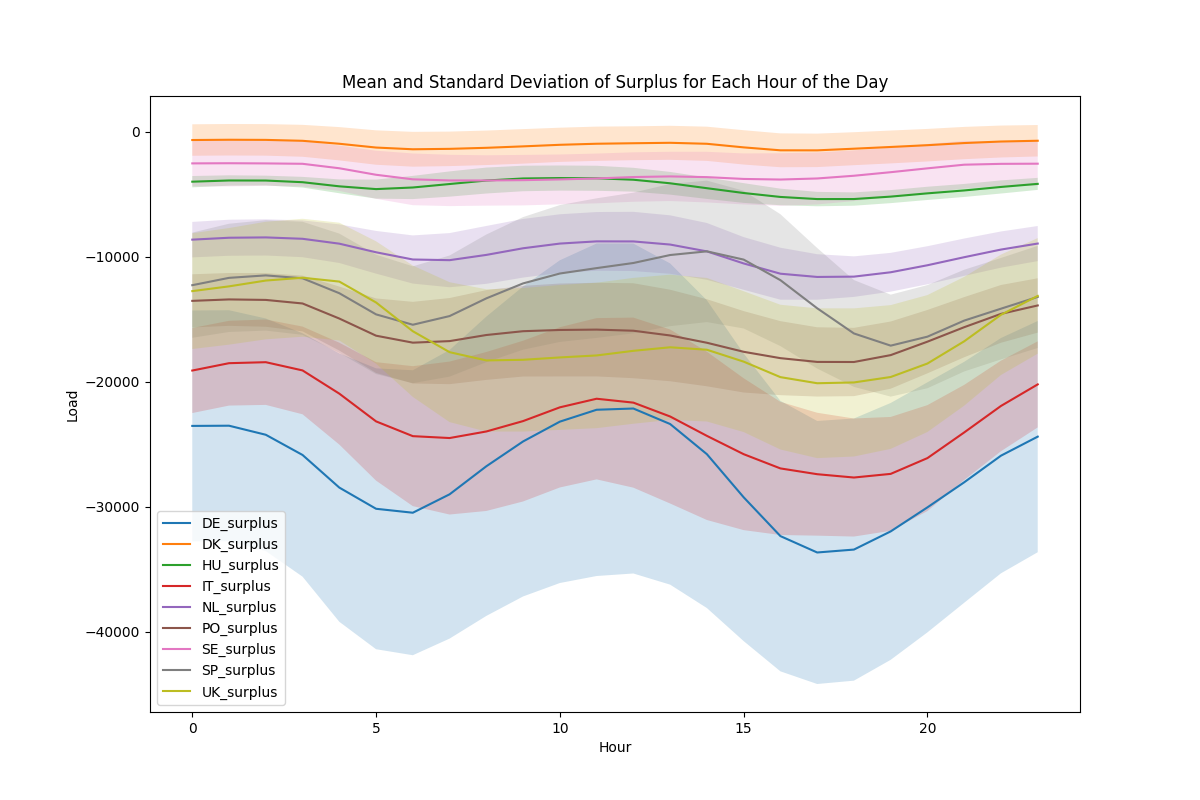
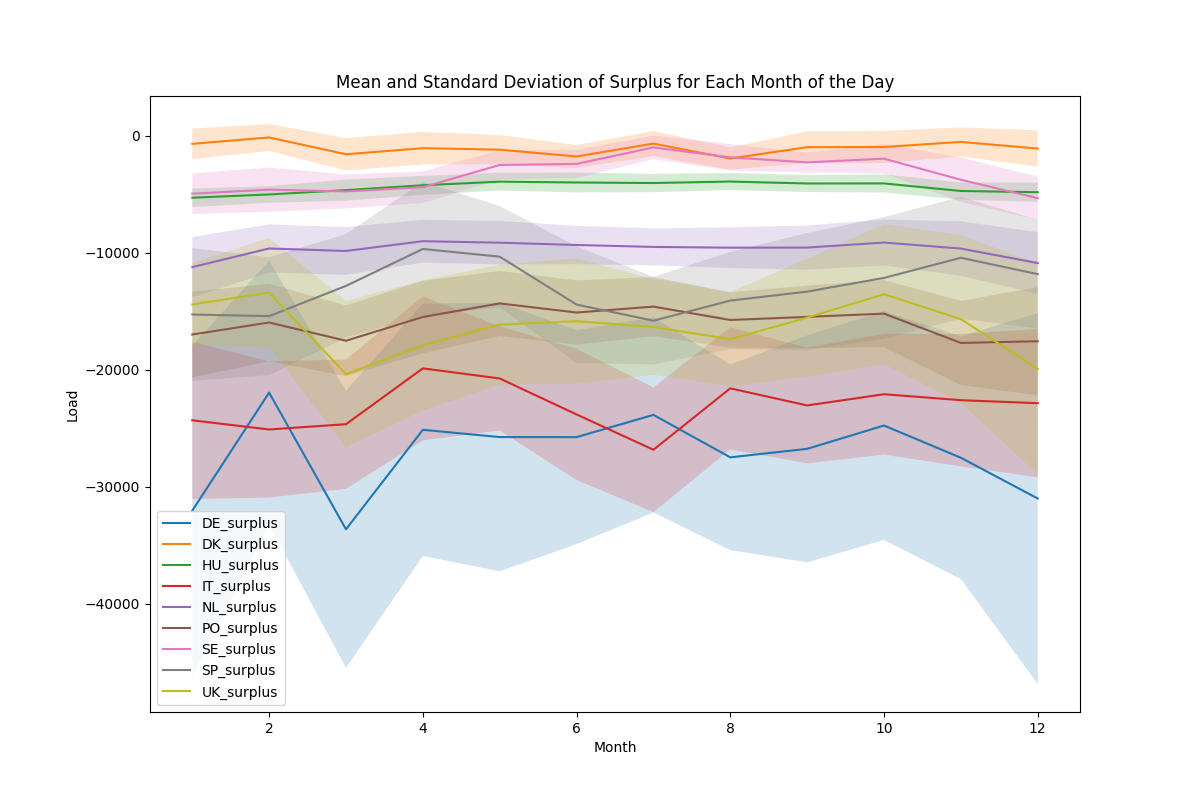
Documentation update
* Pending to run with the selected predictions.json

diff --git a/doc/charts.py b/doc/charts.py
@@ -1,18 +1,21 @@
 #Ensure that you have installed all the necessary dependencies. You can do this by executing "pip install NAME", for example, NAME=seaborn.1
-import pandas as pd
-import matplotlib.pyplot as plt
-import seaborn as sns
+import os
+import json
 import numpy as np
+import pandas as pd
+import seaborn as sns
+import matplotlib.pyplot as plt
+
+from pandas import json_normalize
+
 
 """--------------------------------------------------------------
-#EXPLORATORY ANALYSIS 1 - Insights [2/8]
+#EXPLORATORY ANALYSIS 1 - Insights [2/3]
 --------------------------------------------------------------
 """
 
 csv_file_path = "../data/processed_data_only_entsoe.csv"
 df = pd.read_csv(csv_file_path)
-
-print(df)
 
 #Total green per country
 total_load = df[[col for col in df.columns if 'green' in col]].sum()
@@ -41,14 +44,12 @@ plt.show()
 plt.close()
 
 """--------------------------------------------------------------
-#EXPLORATORY ANALYSIS 2 - Insights [2/8]
+#EXPLORATORY ANALYSIS 2 - Insights [2/3]
 --------------------------------------------------------------
 """
 
 csv_file_path = "../data/processed_data.csv"
 df = pd.read_csv(csv_file_path)
-
-print(df)
 
 #Total load per country
 total_load = df[[col for col in df.columns if 'load' in col]].sum()
@@ -89,9 +90,113 @@ for column in mean_load.columns:
 
 plt.title('Mean and Standard Deviation of Surplus for Each Hour of the Day')
 plt.xlabel('Hour')
-plt.ylabel('Load')
+plt.ylabel('Surplus')
 plt.legend()
 
-plt.savefig('surplus_std.png')
+plt.savefig('hour_surplus_std.png')
+plt.show()
+plt.close()
+
+"""--------------------------------------------------------------
+#EXPLORATORY ANALYSIS 2 - Insights [3/3]
+--------------------------------------------------------------
+"""
+csv_file_path = "../data/processed_data.csv"
+df = pd.read_csv(csv_file_path)
+
+# (Training dataset) Pie chart group by 'label' and count the number of occurrences of each label 
+label_counts = df['label'].value_counts()
+
+plt.figure(figsize=(10, 6))
+plt.pie(label_counts, labels=label_counts.index, autopct='%1.1f%%', startangle=140)
+plt.title('Distribution of Labels (Training dataset)')
+
+plt.savefig('correct_training_labels.png')
+plt.show()
+plt.close()
+
+
+# (prediction labels) Pie chart group by 'label' and count the number of occurrences of each label 
+file_path = os.path.join(os.path.dirname(__file__), '../predictions/predictions.json')
+with open(file_path, 'r') as file:
+    json_data = json.load(file)
+
+df = json_normalize(json_data).transpose()
+df.columns = ['label']
+label_counts = df['label'].value_counts()
+
+plt.figure(figsize=(10, 6))
+plt.pie(label_counts, labels=label_counts.index, autopct='%1.1f%%', startangle=140)
+plt.title('Distribution of Labels')
+
+plt.savefig('predicted_labels.png')
+plt.show()
+plt.close()
+
+
+csv_file_path = "../data/test-labeled.csv"
+df = pd.read_csv(csv_file_path)
+
+# (Correct test dataset) Pie chart group by 'label' and count the number of occurrences of each label 
+label_counts = df['label'].value_counts()
+
+plt.figure(figsize=(10, 6))
+plt.pie(label_counts, labels=label_counts.index, autopct='%1.1f%%', startangle=140)
+plt.title('Distribution of Labels (Training dataset)')
+
+plt.savefig('correct_test_labels.png')
+plt.show()
+plt.close()
+
+csv_file_path = "../data/processed_data.csv"
+df = pd.read_csv(csv_file_path)
+
+# STD Monthly
+df['Time'] = pd.to_datetime(df['Time'])
+df['Month'] = df['Time'].dt.month
+
+mean_load = df.groupby('Month')[[col for col in df.columns if 'surplus' in col]].mean()
+std_load = df.groupby('Month')[[col for col in df.columns if 'surplus' in col]].std()
+
+plt.figure(figsize=(12, 8))
+for column in mean_load.columns:
+    plt.plot(mean_load.index, mean_load[column], label=column)
+    plt.fill_between(mean_load.index, mean_load[column]-std_load[column], mean_load[column]+std_load[column], alpha=0.2)
+
+plt.title('Mean and Standard Deviation of Surplus for Each Month')
+plt.xlabel('Month')
+plt.ylabel('Surplus')
+plt.legend()
+
+plt.savefig('monthly_surplus_std.png')
+plt.show()
+plt.close()
+
+"""--------------------------------------------------------------
+Others
+--------------------------------------------------------------
+"""
+
+# Circle with 24 points
+def calculate_circle_points(radius, num_points):
+    theta = np.linspace(0, 2*np.pi, num_points)
+    x = radius * np.cos(theta)
+    y = radius * np.sin(theta)
+    return x, y
+
+num_points = 24 # Number of points to mark on the circle
+radius = 1.0
+x_circle, y_circle = calculate_circle_points(radius, num_points)
+plt.figure(figsize=(6, 6))
+plt.plot(x_circle, y_circle, label='Circle')
+plt.scatter(x_circle, y_circle, color='red', label='Points')
+for i, (x, y) in enumerate(zip(x_circle, y_circle)):
+    plt.text(x, y, str(i+1), color='black', ha='center', va='center')
+plt.axis('equal')
+plt.xlabel('X-axis')
+plt.ylabel('Y-axis')
+plt.title('Circle with 24 Points')
+
+plt.savefig('circle_24_points.png')
 plt.show()
 plt.close()

diff --git a/README.md b/README.md
@@ -1,3 +1,4 @@
+
 ## About The Project <a id="about"></a>
 This prediction model is designed to forecast the European country that will likely have the highest surplus of green energy in the next hour. The project was developed in accordance with the specifications for the challenge of the [EcoForecast Contest: Revolutionizing Green Energy Surplus Prediction in Europe](https://nuwe.io/dev/competitions/schneider-electric-european-2023/ecoforecast-revolutionizing-green-energy-surplus-prediction-in-europe). The generated model provides a label indicating which of the listed countries will have the most surplus of green energy, determined by the following formula:
 $$
@@ -53,7 +54,7 @@ Additional dependencies:
 
 ## Getting Started <a id="getstart"></a>
 
-Given that [Python 3.11+](https://www.python.org/downloads/) and [pip](https://pip.pypa.io/en/stable/) are installed and correctly configured in the system, and that you have [CUDA-capable hardware](https://developer.nvidia.com/cuda-gpus) installed, you may follow these steps.
+Given that [Python 3.11+](https://www.python.org/downloads/) and [pip](https://pip.pypa.io/en/stable/) are installed and correctly configured in the system, and that you have [CUDA-capable hardware](https://developer.nvidia.com/cuda-gpus) installed, you may follow these steps. It is recommended to have a minimum of 9 GB of VRAM.
 
 ### Prerequisites
 
@@ -85,8 +86,15 @@ pip install -r requirements.txt
 
 ## Execution <a id="execution"></a>
 ### How to execute
-TODO
-
+1. Place a valid token in the [src/config/config.ini](src/config/config.ini) file.
+2. Execute the script:
+```bash
+./run_pipeline.sh start_date end_date raw_data_file model_file test_data_file predictions_file
+```
+3. Alternatively, you can execute the script using the default settings (**recommended**):
+```
+./run_default.sh
+```
 ### Flow of the code
   
 The main inference pipeline of this project is designed to be executed through a single script, [run_pipeline.sh](../scripts/run_pipeline.sh). This script performs the following tasks*:
@@ -114,7 +122,7 @@ It's important to note that the API imposes a restriction on the data request, a
 
 
 ### Download Elexon data [OPTIONAL] [[More info]](#ukreason)
-In case you run the script with the *--only_entsoe* setting, you may skip this section. 
+In case you run the ingestion script with the *--only_entsoe* setting, you may skip this section. 
 
 If you choose to run it without the *--only_entsoe* option (which is both the default and recommended), the data for the UK will not be fetched from ENTSO-E but rather from [Elexon](https://developer.data.elexon.co.uk/). The subsequent process remains identical to the one previously explained for ENTSO-E. However, it's crucial to consider the following particularities:
 
@@ -183,11 +191,12 @@ $$
 \text{Max Surplus} = \max(\text{Total Green Energy Generated} - \text{Load})
 $$
 
-Since we try to predict which country will have the most surplus in the next hour, we do a basic _1-shift_ operation. Then, we drop the last row since we do not have the necesary data to calculate the label. Lastly, we concatenate the main dataframe with the generated labels dataframe.
+Since we try to predict which country will have the most surplus in the next hour, we do a basic _1-shift_ operation. Then, we drop the last row since we do not have the necessary data to calculate the label. Lastly, we concatenate the main dataframe with the generated labels dataframe.
 
 ### Dataframe splitting
-Now that we have all the dataset, and given that there is a rule that forces us to split in 80/20 for traing/validation, we decided to create a script that generates a [csv file](/data/test.csv) with the last 20% of the dataset just for testing purposes.
-Addicionally, we decided to delegate the resposibility of segregating that same validation split from the training data to a dataset wrapper object that handles model sample input.
+Now that we have all the dataset, and given that there is a rule that forces us to split in 80/20 for training/validation, we decided to create a script that generates a [csv file](/data/test.csv) with the last 20% of the dataset just for testing purposes.
+
+Additionally, we decided to delegate the responsibility of segregating that same validation split from the training data to a dataset wrapper object that handles the model sample input.
 
 ### Batch preparation
 We developed a custom LSTM model that necessitates a 4-dimensional input shape, thereby it requires additional data processing. For more detailed information, please refer to the [model's training section on data handling](#wrapper). **It contains crucial details regarding data processing that are essential for a comprehensive understanding of our solution.**
@@ -250,7 +259,7 @@ The UK anomaly has been successfully resolved using the Elexon API to fetch the 
 ![Surplus plotbox](doc/surplus_plotbox.png)
 Now, let's examine the statistical distribution of the surplus for each country. According to the chart, it seems that any country could be the possible winner, but let's dig in a bit deeper to get a more accurate explanation.  
 
-![Surplus STD](doc/surplus_std.png)
+![Surplus STD](doc/hour_surplus_std.png)
 This graphic shows the mean of the hourly surplus per country, with one standard deviation. Given that:
 - Approximately 68% of the data falls within one standard deviation of the mean [shadows printed in the chart].
 - Approximately 95% falls within two standard deviations.
@@ -274,9 +283,7 @@ Following the processing of data for each country, the network consolidates the 
 The batch structure can be summarized as follows:
 ![Batch Structure](doc/batch_structure.png)
 
-You may notice that we incorporate a window in our approach. The rationale behind this is that we don't task our model to predict one result at a time. LSTM models tend to perform better when predicting consecutive rows. Consequently, instead of solely predicting the current result, we instruct the network to predict both the current and the last (window) values. You can think that we are **"heating up" the machine**, so it works better. Despite its seemingly unconventional nature, this approach is surprisingly effective, as we have validated through experimentation.
-
-There's no need for concern regarding look-ahead bias, as we ensure that we neither train the model using the test data nor incur in any bias. **We just ask for a series of predictions and discard all the responses except the last one.** Additionally, you won't lose the first "window" of rows; if there is no data, we simply send a row of zeros. The class responsible for managing this process is [Data Wrapper](#wrapper).
+You may notice that we incorporate a window in our approach. The rationale behind this is that LSTM models use both, long and short term memory. The window is responsible for the short-term one.
 
 ### Cyclical data <a id="circles"></a>
 A Neural Network lacks inherent understanding of time; when using dates, the machine perceives them as numerical values. Challenges arise when attempting to predict cyclical data using timestamps because machines struggle to discern patterns due to variations such as:
@@ -288,16 +295,16 @@ A Neural Network lacks inherent understanding of time; when using dates, the mac
 Considering that both consumption and generation exhibit cyclical variations influenced by factors like solar exposure or heating usage, it becomes essential to incorporate time in a suitable manner. Our approach is to represent time as a circumference, wherein we depict a circle with as many points as the intervals present. For instance, in a 24-hour interval, we input a circle with 24 points. The class responsible for managing this process is [Data Wrapper](#wrapper)
 
 As a matter of fact, circles can be expressed as sine and cosine functions. Therefore, it suffices to calculate the coordinates for each x and y axis based on the desired number of points.
-
+ ![circle24](doc/circle_24_points.png)
 We take into account that all months have 31 days, recognizing that there might be a few *missing cyclic values*. In the worst-case scenario, we may have only 28 out of 31 values, which is far more preferable than having none at all.
 
 ### Data Wrapper <a id="wrapper"></a>
-Our model structure requires a 4-dimension input shape, therefore, we concluded that the best option was create the [DatasetWrapper](src/dataset_helpers/dataset_wrapper.py) class. 
+Our model structure requires a 4-dimension input shape, therefore, we concluded that the best option was to create the [DatasetWrapper](src/dataset_helpers/dataset_wrapper.py) class. 
 
 This code serves two main purposes:
 - Divide the dataset in the necessary shapes, returning an iterable that can be used as input to the model.
 - Adapt the time structure to a format suitable for a machine learning model to predict and pseudo-comprehend its cyclical nature.
-- Split training and validation data
+- Split training and validation data.
 
 <p align="right">(<a href="#top">back to top</a>)</p>
 
@@ -307,6 +314,11 @@ This code serves two main purposes:
 
 ## Insights [3/3] <a id="ins3"></a>
 ### Exploratory analysis [3] (Results analysis)
+
+![Surplus STD](doc/predicted_labels.png)
+![Surplus STD](doc/correct_training_labels.png)
+![Surplus STD](doc/correct_test_labels.png)
+![Surplus STD](doc/monthly_surplus_std.png)
 
 <p align="right">(<a href="#top">back to top</a>)</p>
 
